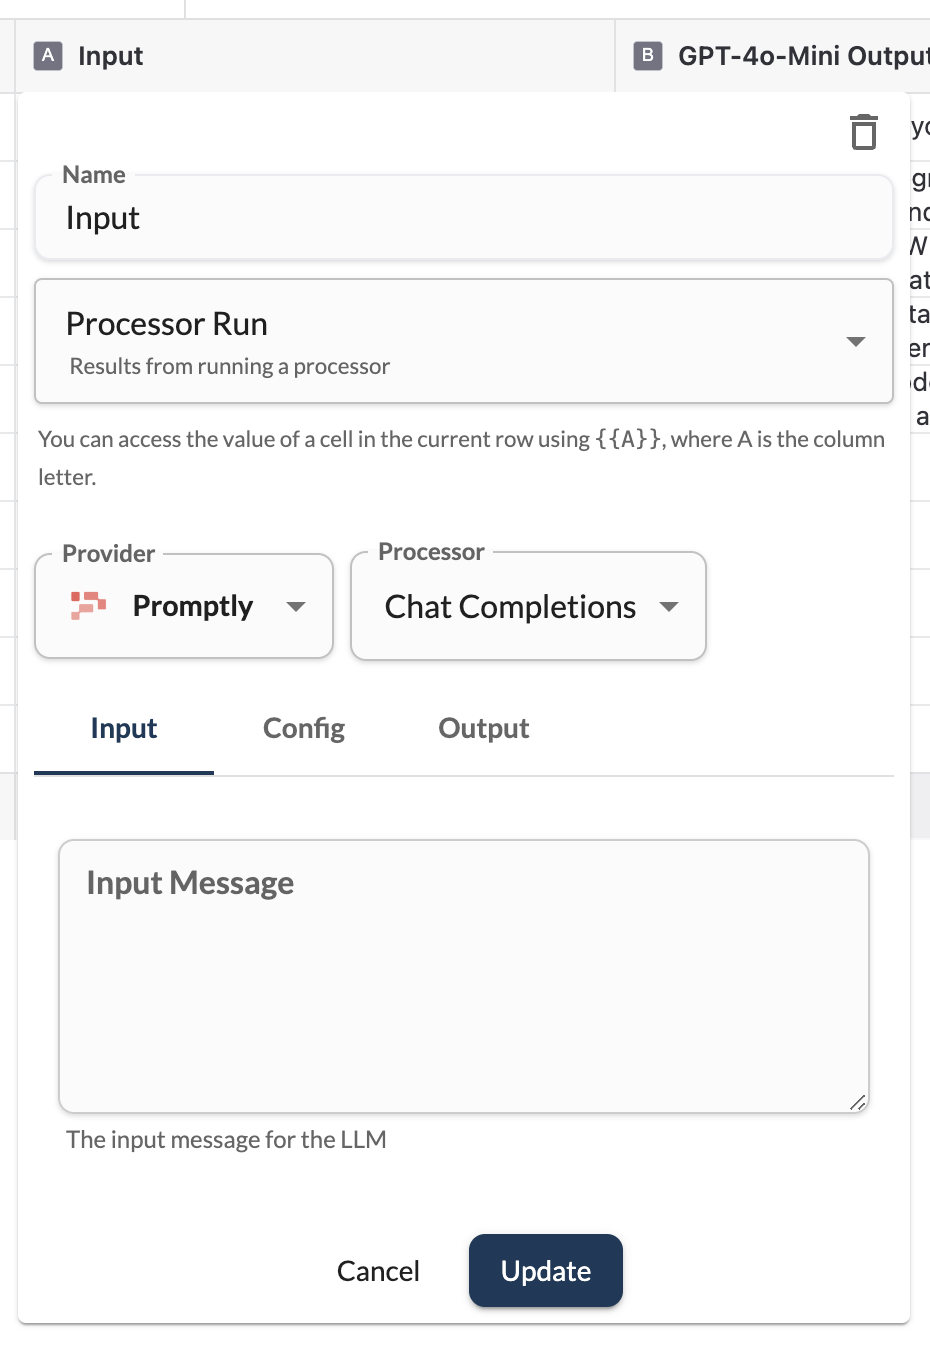
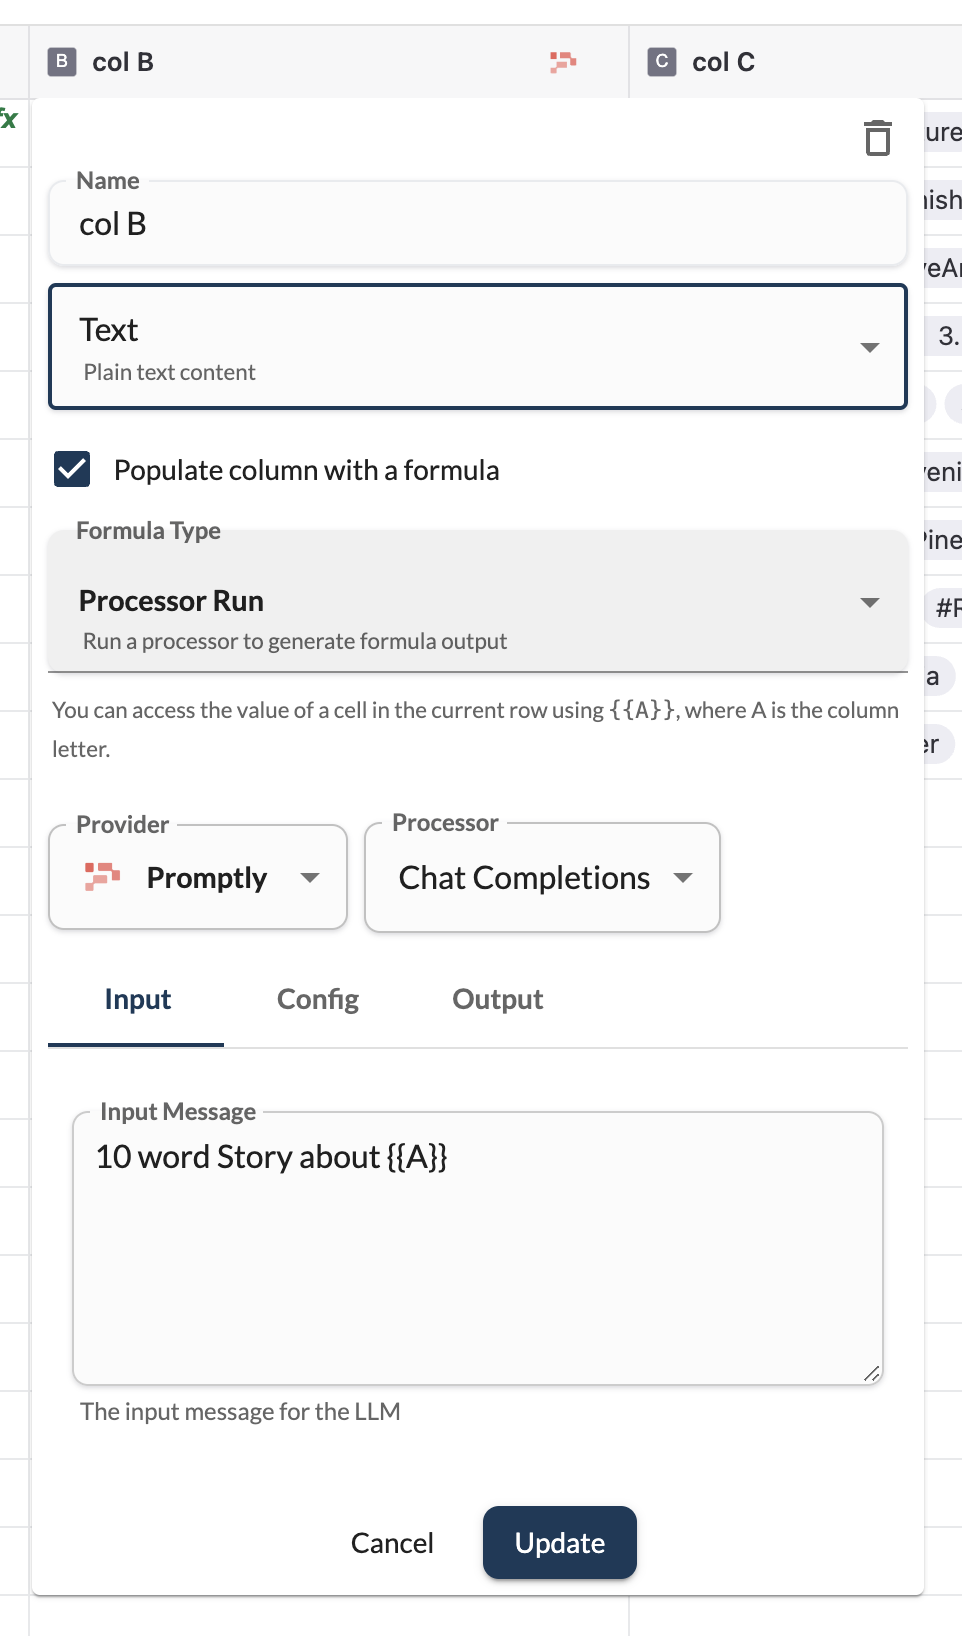
Update sheets docs

diff --git a/docs/sheets/types-and-features.md b/docs/sheets/types-and-features.md
@@ -7,17 +7,21 @@ Promptly Sheets offer a variety of column types and features to help you create 
 
 ## Column Data Formats
 
-Sheets support these static data formats for columns:
+Sheets support these data formats for columns:
 
 1. **Text**: For storing and manipulating text data.
 2. **Number**: For numerical data and calculations.
 3. **URI**: For storing and working with web addresses and other URIs.
+4. **Boolean**: For storing and working with boolean values.
+5. **Category**: For storing and working with categorical data as a list of comma separated values.
 
-Along with the static data formats, you can also use these dynamic column types:
+<img src="/img/ui/sheet-column-types.png" alt="Column_types" width="300px" />
+
+You can use formulas to auto populate columns with data from other columns in the same row. You can also run agents, apps or LLMs on the data in the row using formulas like `processor_run`, `app_run` and `data_transformer`. Below are the different types of formulas you can use.
 
 ### 1. Processor Run
 
-This column type allows you to use data from other columns in the same row to call processors like OpenAI Chat Completions, image generations, and more. The output of the processor will fill the cell in that column. Using the output template, you can specify how the output will be structured.
+This formula type allows you to use data from other columns in the same row to call processors like OpenAI Chat Completions, image generations, and more. The output of the processor will fill the cell in that column. Using the output template, you can specify how the output will be structured.
 
 Example use case: Generate a summary of a longer text stored in another column.
 
@@ -25,7 +29,7 @@ Example use case: Generate a summary of a longer text stored in another column.
 
 ### 2. App Run
 
-With this column type, you can call apps or LLM agents that are already built into Promptly and fill the cell with their output. This is useful for more complex operations that require multiple steps or specific app functionality.
+With this formula type, you can call apps or LLM agents that are already built into Promptly and fill the cell with their output. This is useful for more complex operations that require multiple steps or specific app functionality.
 
 Example use case: Use a custom app to analyze sentiment of customer feedback stored in another column.
 
@@ -33,7 +37,7 @@ Example use case: Use a custom app to analyze sentiment of customer feedback sto
 
 ### 3. Data Transformer
 
-This type enables you to take output from other cells and apply LiquidJS templates to generate new data. It's perfect for formatting, combining, or transforming data from multiple sources.
+This formula type enables you to take output from other cells and apply LiquidJS templates to generate new data. It's perfect for formatting, combining, or transforming data from multiple sources.
 
 Example use case: Combine a customer's name and purchase history into a personalized email template.
 
@@ -41,7 +45,7 @@ Example use case: Combine a customer's name and purchase history into a personal
 
 ## Formula Cells
 
-Along with the dynamic column types, you can also use formula cells to run processors, apps, or data transformers within a single cell. This feature is ideal for complex operations that require multiple steps or data from various sources.
+Along with the ability to populate columns with data using formulas, you can also use formulas in cells to run processors, apps, or data transformers within a single cell. This feature is ideal for complex operations that require multiple steps or data from various sources.
 
 When the "Spread output to cells" option is checked in a formula cell, the output will fill other cells if it's a list or a list of lists. This is particularly useful for generating multiple related pieces of content at once or populating a table with calculated values.
 

diff --git a/docs/sheets/working-with-sheets.md b/docs/sheets/working-with-sheets.md
@@ -18,11 +18,12 @@ Now that we've covered the types and features available in Promptly Sheets, let'
 
 1. Each sheet is creating with a list of default columns. Click on the "+" button to add a new column.
 2. Similar to columns in a spreadsheet, columns can be referred by their column letter (A, B, C, etc.) and rows can be referred by their row number (1, 2, 3, etc.).
-3. When adding a new column, you can choose the column type (Text, Number, URI, Processor_run, App_run, or Data_transformer).
-4. You can also change the column type later by clicking on the icon at the right side of the column header and selecting the type you want.
-5. Configure the column settings based on the type you've chosen.
+3. When adding a new column, you can choose the column type (Text, Number, URI, Boolean, Category, etc).
+4. To populate the column with data using LLMs or by transforming other columns, you can use a formula. Click on the `Populate column with formula` checkbox to add a formula to the column.
+5. You can also change the column type later by clicking on the icon at the right side of the column header and selecting the type you want.
+6. Configure the column settings based on the type you've chosen.
 
-### Configuring a Processor run Column
+### Configuring a Processor run formula
 
 1. Select the provider (OpenAI, Anthropic etc) and the processor you want to use (e.g., Chat Completions, Image Generations etc).
 2. Add the input for the processor. This can be a static value or a reference to other columns in the sheet. You can use `{{ column_letter }}` to reference a column's value in the current row.
@@ -30,13 +31,13 @@ Now that we've covered the types and features available in Promptly Sheets, let'
 4. Configure output template. This can be based on the processor's output schema.
 5. Save the processor run configuration.
 
-### Configuring an App run Column
+### Configuring an App run formula
   
 1. Choose the app or LLM agent you want to use.
 2. Based on the app's input schema, a form will be automatically generated. You can use `{{ column_letter }}` to reference a column's value in the current row and fill in the form.
 3. Save the app run configuration.
 
-### Configuring a Data transformer Column
+### Configuring a Data transformer formula
 
 1. Write your LiquidJS template, referencing other columns as needed.
 2. Save the data transformer configuration.
@@ -63,5 +64,10 @@ In formula cells, you can refer to values in a individual cell by using the cell
 
 1. Once your sheet is configured, click on the green run button in the sheet header to process all cells.
 2. By clicking on the same button, you can pause the running sheet.
+3. You can also run the sheet automatically on a schedule by clicking on the "Automated Runs" option under settings in the sheet header.
+
+:::tip
+You can run only a subset of cells by selecting the cells you want to run and clicking on the run button with your CMD key pressed. You should see tooltip on run button say `Run selected cells`.
+:::
 
 In the next section, we'll cover some advanced usage scenarios and tips for getting the most out of Promptly Sheets.

diff --git a/docs/sheets/advanced-usage.md b/docs/sheets/advanced-usage.md
@@ -10,8 +10,16 @@ Promptly Sheets offer powerful capabilities for advanced users. Here are some ti
 You can create complex workflows by chaining operations across multiple columns. For example:
 
 1. Column A: Input text
-2. Column B: Processor_run to summarize the text
-3. Column C: App_run to analyze sentiment of the summary
-4. Column D: Data_transformer to create a final report
+2. Column B: Processor_run formula to summarize the text
+3. Column C: App_run formula to analyze sentiment of the summary
+4. Column D: Data_transformer formula to create a final report
 
 This chain allows you to process data through multiple steps automatically.
+
+## Using Formulas in Cells
+
+You can use formulas in cells to run processors, apps, or data transformers within a single cell. This feature is ideal for complex operations that require multiple steps or data from various sources.
+
+When the "Spread output to cells" option is checked in a formula cell, the output will fill other cells if it's a list or a list of lists. This is particularly useful for generating multiple related pieces of content at once or populating a table with calculated values.
+
+Example use case: Generate a list of product ideas and their descriptions, spreading the output across multiple cells in the sheet.

diff --git a/docs/sheets/introduction.md b/docs/sheets/introduction.md
@@ -9,9 +9,9 @@ You can use sheets to run a large amount of input against LLMs to automate your 
 
 Sheets in Promptly support various data formats and column types, allowing you to create powerful workflows:
 
-- Supports static formats like `text`, `number`, `uri`
-- `processor_run`, `app_run`, and `data_transformer` column types to run agents, apps or LLMs on the data
-- Formula cells for complex operations
+- Supports data formats like `text`, `number`, `uri`, `boolean`, `category` and more
+- Populate columns with data by running LLMs or apps directly on your data with formulas like `processor_run`, `app_run` and `data_transformer`
+- Use formula cells to perform complex operations on your data
 - Ability to spread output across multiple cells
 
 Below is a quick demo of what you can do with sheets. Here we are generating a list of words using `gpt-4o-mini`, expanding them into the column and using those values to generate a short story about them with another call to `gpt-4o-mini` in the second column.
